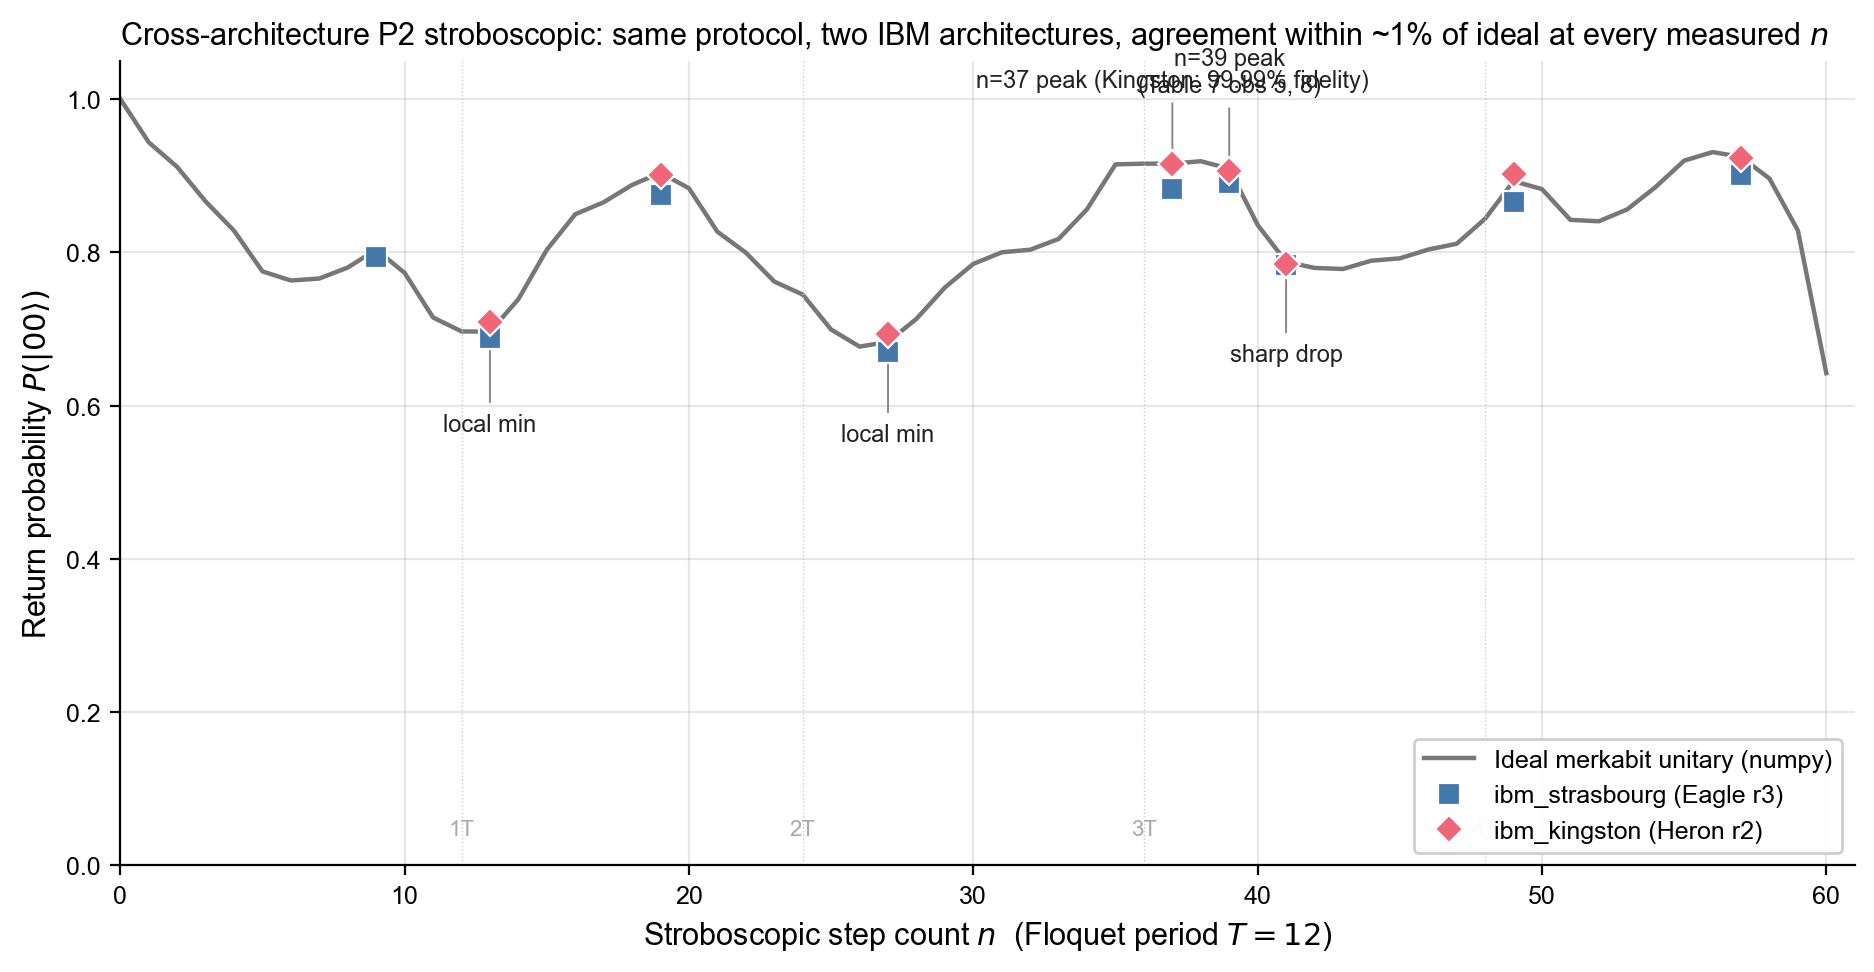
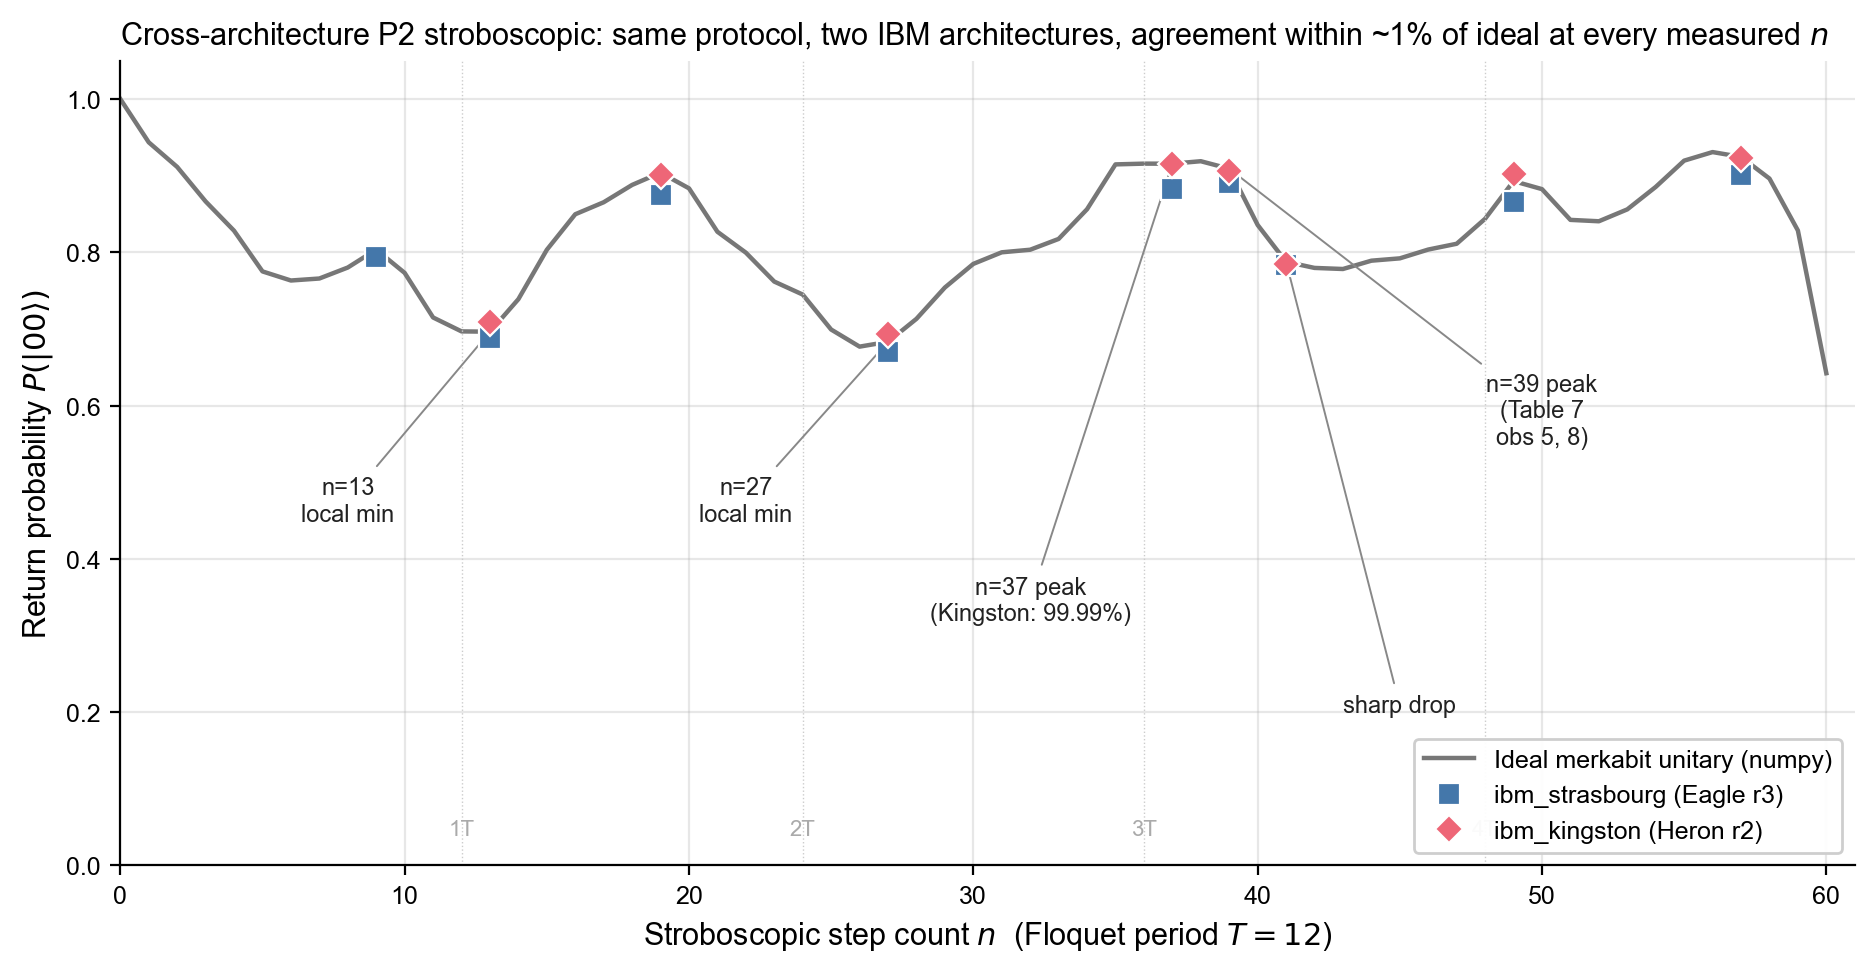
Fix: separate overlapping n=37/n=39 annotations in Fig 2
The original placement put both peak labels at p_ideal + 0.10 on
adjacent x-coordinates, causing them to render on top of each other.
Replaced with hand-chosen xytext positions and connector arrows so
each annotation occupies clear space.

diff --git a/figures/fig2_cross_architecture_p2.py b/figures/fig2_cross_architecture_p2.py
@@ -76,23 +76,21 @@ ys = [KINGSTON[n] for n in xs]
 ax.plot(xs, ys, "D", color="#EE6677", markersize=7, label="ibm_kingston (Heron r2)",
         zorder=5, markeredgecolor="white", markeredgewidth=0.8)
 
-# Highlight key step counts
+# Highlight key step counts. Coordinates chosen by hand to avoid label overlap.
 key_features = [
-    (13, P_ideal[13], "local min", "below"),
-    (27, P_ideal[27], "local min", "below"),
-    (37, P_ideal[37], "n=37 peak (Kingston: 99.99% fidelity)", "above"),
-    (39, P_ideal[39], "n=39 peak\n(Table 7 obs 5, 8)", "above"),
-    (41, P_ideal[41], "sharp drop", "below"),
+    # (n, label, xytext, ha)
+    (13, "n=13\nlocal min",            (8,  0.45),  "center"),
+    (27, "n=27\nlocal min",            (22, 0.45),  "center"),
+    (37, "n=37 peak\n(Kingston: 99.99%)", (32, 0.32),  "center"),
+    (39, "n=39 peak\n(Table 7\nobs 5, 8)", (50, 0.55),  "center"),
+    (41, "sharp drop",                 (45, 0.20),  "center"),
 ]
-for n, p_ideal, label, where in key_features:
-    if where == "above":
-        ax.annotate(label, xy=(n, p_ideal), xytext=(n, p_ideal + 0.10),
-                    ha="center", fontsize=8.5, color="#222",
-                    arrowprops=dict(arrowstyle="-", color="#888", lw=0.7))
-    else:
-        ax.annotate(label, xy=(n, p_ideal), xytext=(n, p_ideal - 0.13),
-                    ha="center", fontsize=8.5, color="#222",
-                    arrowprops=dict(arrowstyle="-", color="#888", lw=0.7))
+for n, label, xytext, ha in key_features:
+    p_ideal_n = P_ideal[n]
+    ax.annotate(label, xy=(n, p_ideal_n), xytext=xytext,
+                ha=ha, fontsize=8.5, color="#222",
+                arrowprops=dict(arrowstyle="-", color="#888", lw=0.7,
+                                connectionstyle="arc3,rad=0"))
 
 # Floquet period markers
 T = 12
